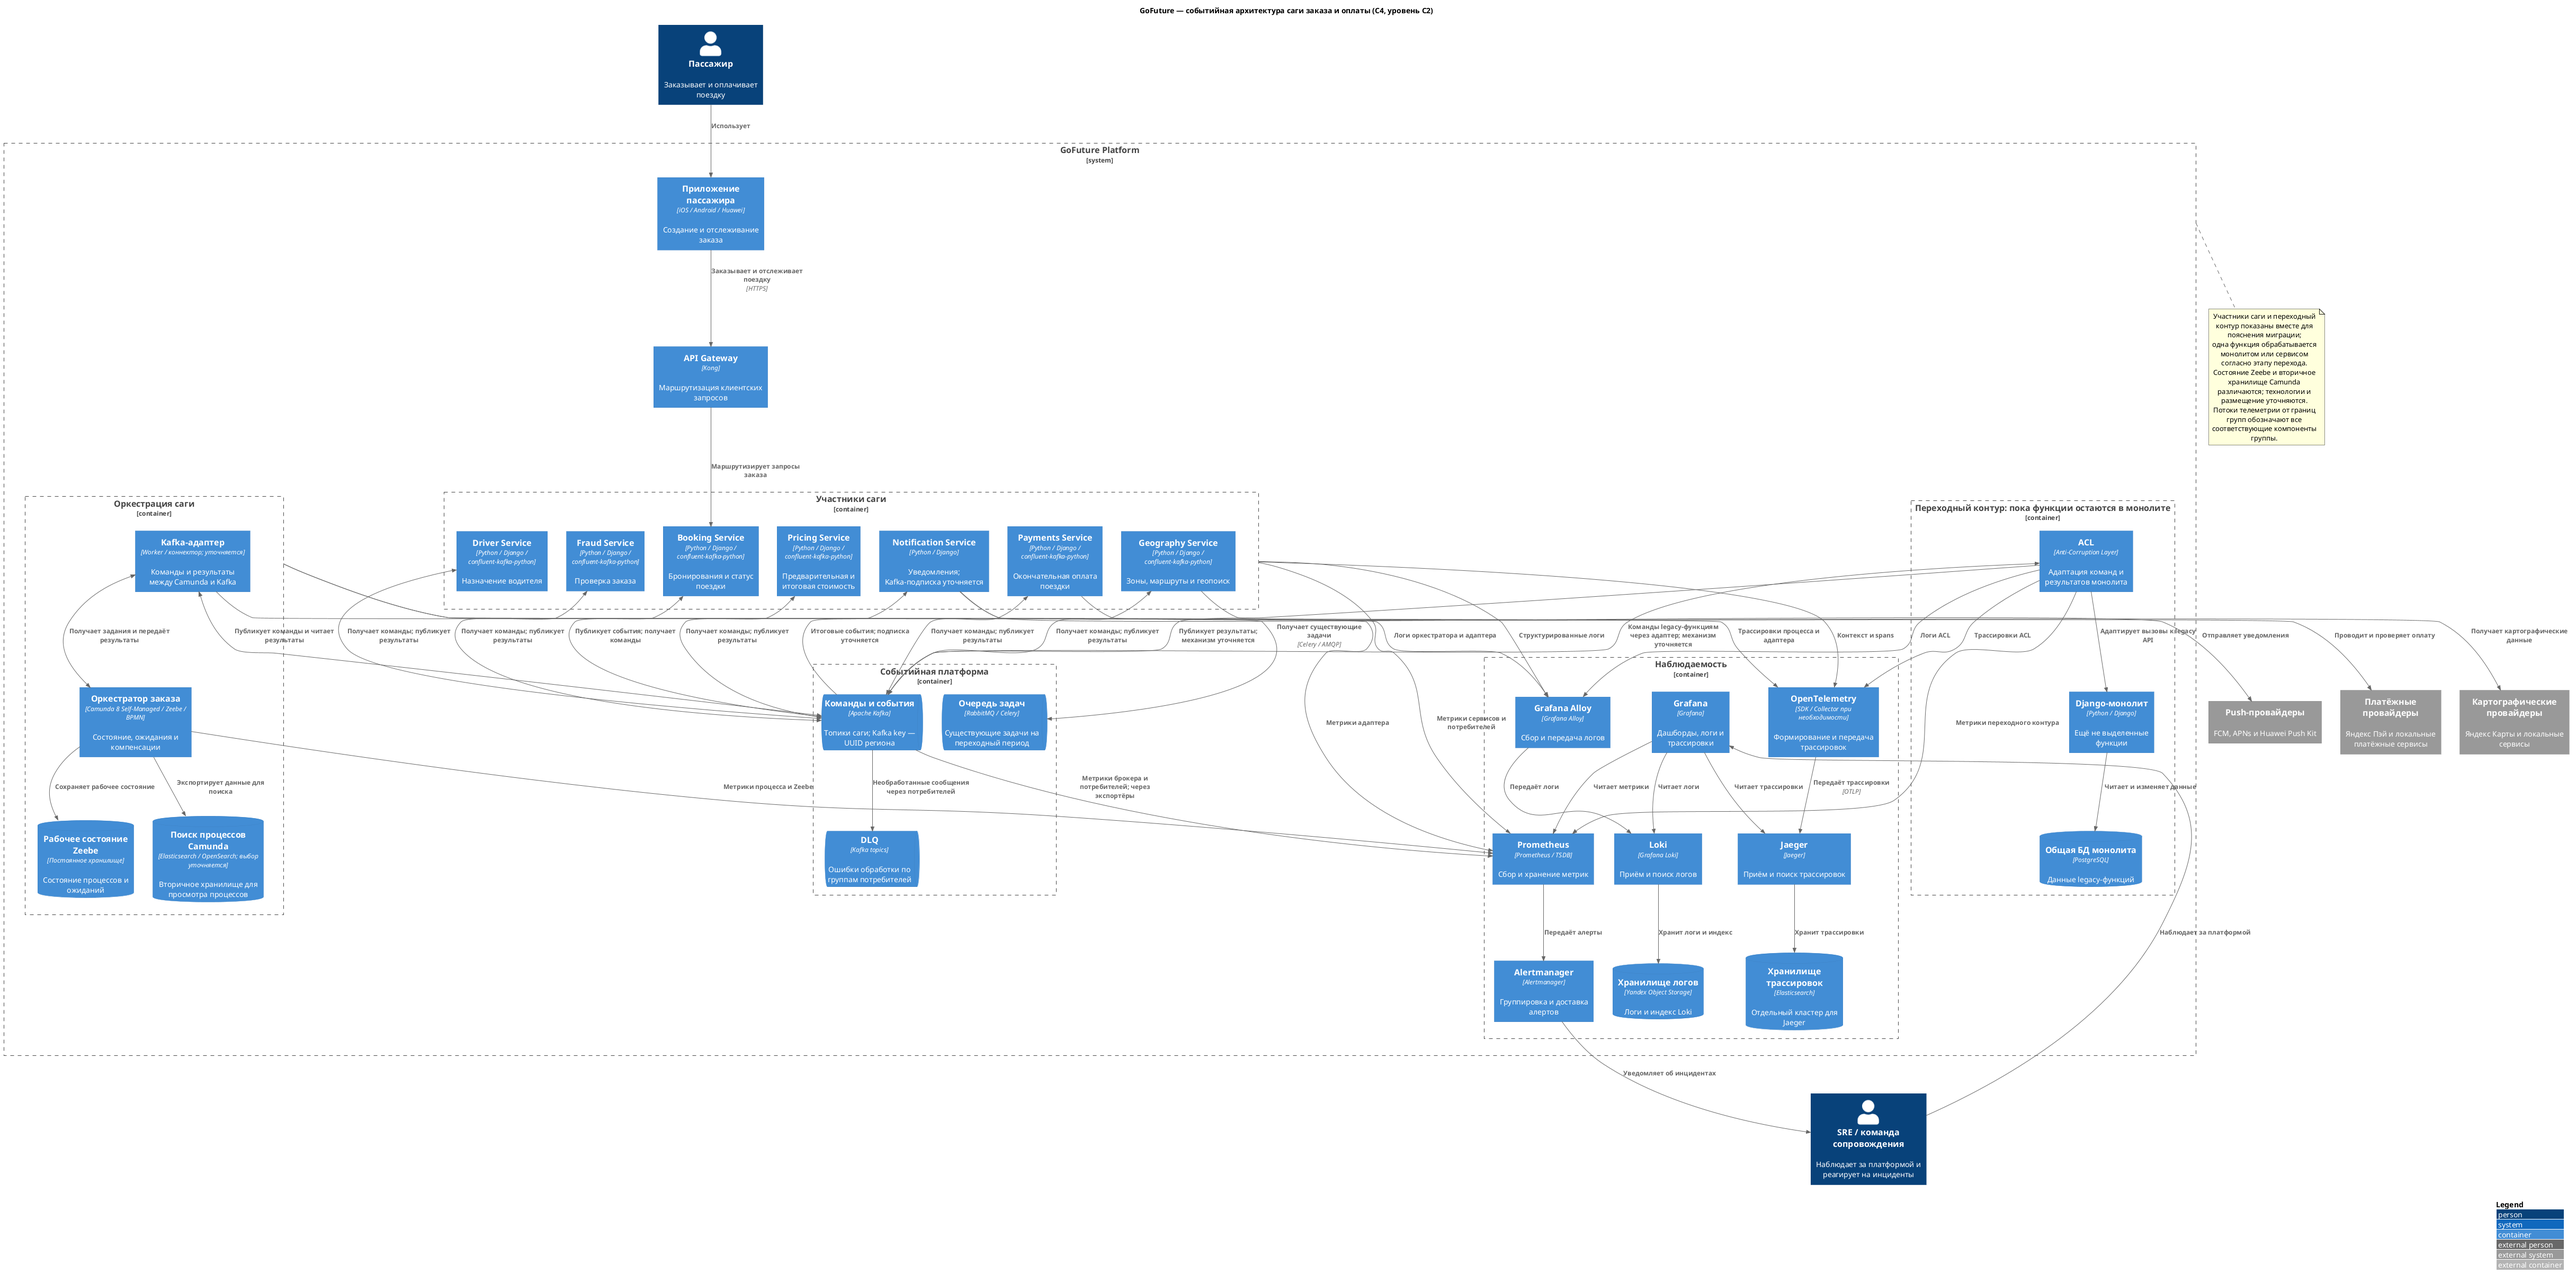
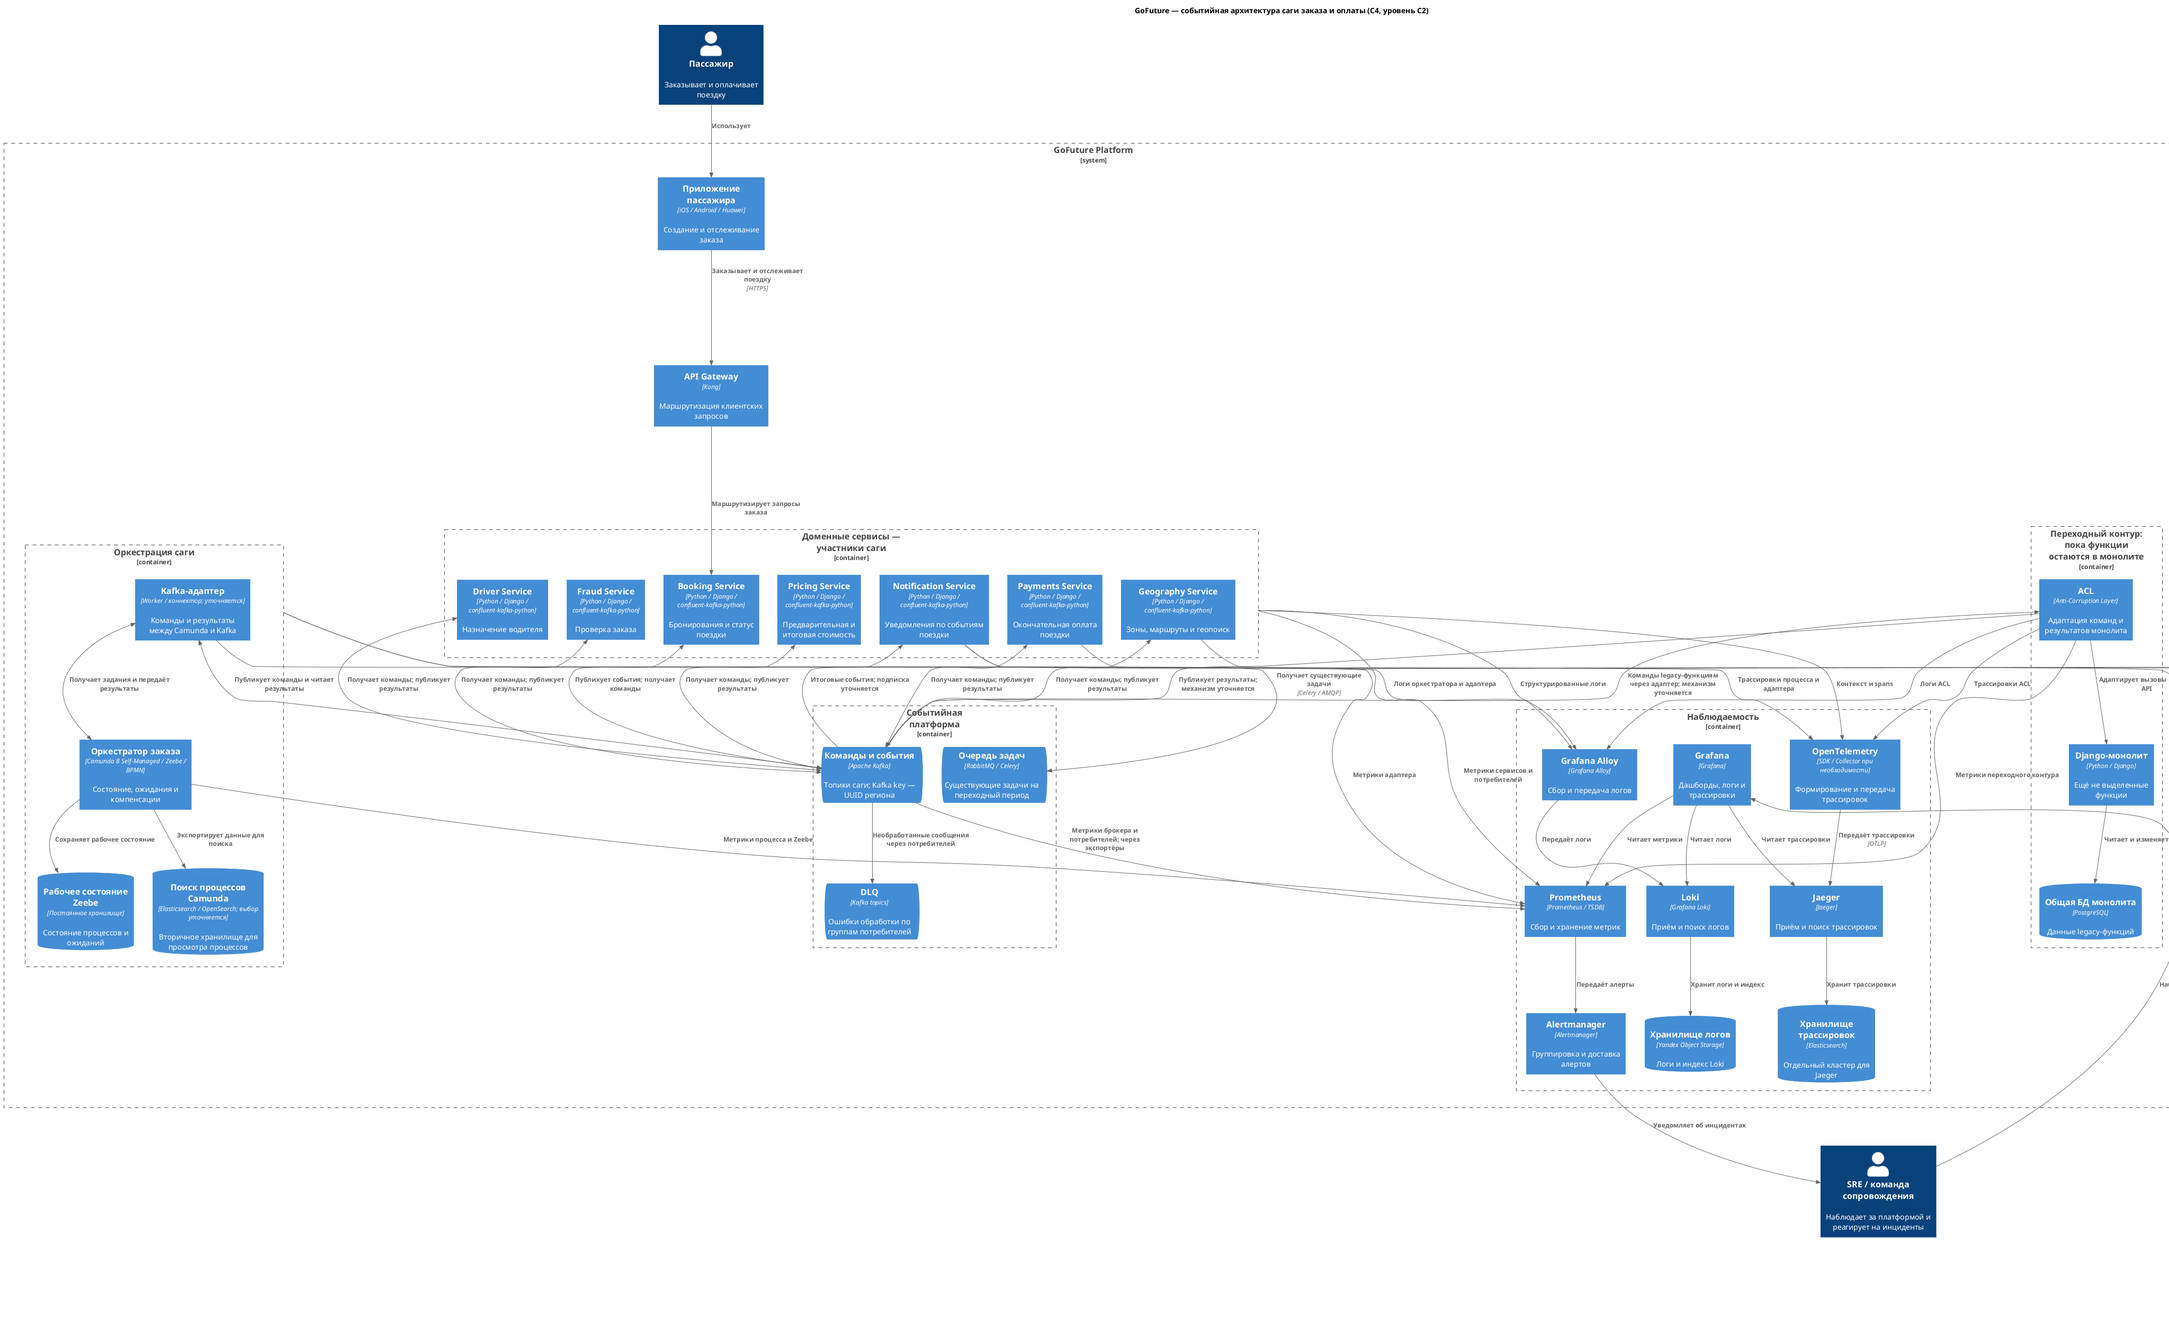
feat: update C2 event driven arch

diff --git a/tasks/task_2/README.md b/tasks/task_2/README.md
@@ -4,6 +4,8 @@
 
 **Статус:** архитектурные решения находятся на рассмотрении. Диаграмма и ADR описывают предлагаемый вариант, а не уже развёрнутую систему; детали реализации необходимо согласовать и проверить на пилоте.
 
+Эта схема ограничена процессом заказа и оплаты. Полный состав доменных сервисов, их хранилища и общая событийная платформа показаны в [целевой C2-диаграмме задачи 1](../task_1/diagrams/C2_to_be.puml).
+
 ## Основные решения
 
 - Для координации процесса предложена **Parallel Saga** с асинхронным обменом и итоговой согласованностью. Независимые шаги могут выполняться параллельно, если это допускают бизнес-правила и доступны необходимые данные.
